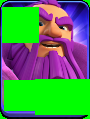
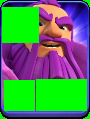
feat(cards): 导出新版攻城机器卡牌并更新模板遮罩

Changed region(s): [[0.3778, 0.6555, 1.0, 0.9832]]

diff --git a/scripts/refresh-cards/export_cards.py b/scripts/refresh-cards/export_cards.py
@@ -3,7 +3,7 @@
 
     python3 scripts/refresh-cards/export_cards.py var/coc-unpack/sc/ui.sc
 
-产出 assets/image/Cards/{Unit,Hero,Spell}/<卡牌名>.png。
+产出 assets/image/Cards/{Unit,Hero,Spell,Siege}/<卡牌名>.png。
 """
 
 from __future__ import annotations
@@ -87,13 +87,12 @@ UNIT_CARDS = (
     CardSpec("SuperMiner", "icon_unit_elite_miner", background_layer=3),
     CardSpec("SuperWitch", "icon_unit_elite_witch", background_layer=3),
 )
-
 HERO_CARDS = (
     CardSpec("King", "icon_hero_barbarianKing"),
     CardSpec("Queen", "icon_hero_archerQueen"),
     # 咏王右下角的飞行/地面模式切换开关是其他英雄没有的动态区域。
     CardSpec("Warden", "icon_hero_grandwarden",
-             extra_masks=((0.39, 0.67, 1.0, 0.96),)),
+             extra_masks=((0.4, 0.67, 0.96, 0.93),)),
     CardSpec("Prince", "icon_hero_minionprince"),
     CardSpec("Mars", "icon_hero_warriorPrincess"),
 )
@@ -101,24 +100,36 @@ SPELL_CARDS = (
     CardSpec("SpellRage", "icon_spell_rage"),
     CardSpec("SpellSpeed", "icon_spell_speedup"),
 )
+SIEGE_CARDS = (
+    CardSpec("Balloon", "icon_unit_siege_machine_balloon", image_layer=1),
+    CardSpec("LogRoller", "icon_unit_siege_machine_LogLauncher", image_layer=0),
+    CardSpec("Trebuchet", "icon_unit_siege_machine_catapult", image_layer=0),
+)
 # 卡面在各自卡底的原始 SC 画布中的位置。普通卡面约为 83×83，英雄为 83×113。
 UNIT_FACE_BOX = (3.5, 24.4, 78.5, 99)
 HERO_FACE_BOX = (2.5, -4, 76.5, 98)
 SPELL_FACE_BOX = (2.5, 24.4, 77, 99)
+# 攻城机器肖像在卡底里比普通兵高 16 个 SC 单位。
+SIEGE_FACE_BOX = (3.5, 8.4, 78.5, 83)
 # 英雄肖像的可见网格略有差异，但共享同一个 166×225 的 SC 画布。
 HERO_ICON_BOUNDS = (-83, -144.5, 83, 80.5)
 # 数量、等级等动态内容由 MAAFW 的 green_mask 跳过。
 UNIT_MASKS = ((0.39, 0.03, 0.95, 0.2), (0.06, 0.68, 0.4, 0.91))
 HERO_MASKS = ((0.03, 0.06, 0.43, 0.36), (0.05, 0.68, 0.38, 0.93))
 SPELL_MASKS = ((0.39, 0.03, 0.95, 0.21), (0.05, 0.68, 0.38, 0.91))
+# 所有攻城机器共用感叹号、等级和底部状态按钮的遮罩。
+SIEGE_MASKS = ((0.39, 0.1, 0.61, 0.60),
+               (0.05, 0.68, 0.38, 0.93),
+               (0.4, 0.67, 0.96, 0.93))
 CARD_GROUPS = (
     ("Unit", UNIT_CARDS, "unit_slot", 1, UNIT_FACE_BOX, UNIT_MASKS),
     ("Hero", HERO_CARDS, "hero_slot", 2, HERO_FACE_BOX, HERO_MASKS),
     ("Spell", SPELL_CARDS, "spell_slot", 1, SPELL_FACE_BOX, SPELL_MASKS),
+    ("Siege", SIEGE_CARDS, "siege_slot", 1, SIEGE_FACE_BOX, SIEGE_MASKS),
 )
 GREEN = (0, 255, 0, 255)
 MAX_SIZE = 1000
-# 根据设备截图缩至 720 高后的实测卡牌尺寸区分卡底倍率。
+# 根据设备截图缩至 720 高后的实测卡牌尺寸确定卡底倍率。
 CARD_SCALE = 1.69 * 720 / 1080
 
 
@@ -222,7 +233,7 @@ def render_cards(sc, out):
                 if not face_meshes:
                     raise ValueError(f"{card.name} 的卡面图层不可绘制：{card.symbol}")
                 face_bounds = renderer.bounds(face_meshes, obj_id)
-                if group == "Unit":
+                if group in ("Unit", "Siege"):
                     face_bounds = unit_icon_bounds(face_bounds)
                 elif group == "Hero":
                     face_bounds = HERO_ICON_BOUNDS

diff --git a/scripts/refresh-cards/README.md b/scripts/refresh-cards/README.md
@@ -1,17 +1,18 @@
 # 更新卡面
 
-游戏更新后，从 `.sc` 重新合成家乡战斗条的 Unit、Hero、Spell 卡牌模板。
+游戏更新后，从 `.sc` 重新合成家乡战斗条的 Unit、Hero、Spell、Siege 卡牌模板。
 
 ## 为什么需要工具
 
 卡底和人物图分存在 `ui.sc` 的不同符号里。脚本将两者的网格映射到同一画布，
 按顶点与 UV 直接绘制成卡牌：
 普通兵用 `unit_slot` 图层 1，编号 100 起的活动兵用图层 2；`icon_unit_elite_*` 超级兵
-用图层 3，并应用该图层在 SC 中记录的红色变换。英雄用 `hero_slot` 图层 2，法术用 `spell_slot` 图层 1。
+用图层 3，并应用该图层在 SC 中记录的红色变换。英雄用 `hero_slot` 图层 2，法术用 `spell_slot` 图层 1；攻城机器用 `siege_slot` 图层 1。
 数量、等级及卡底 alpha 低于 50% 的边角填成纯绿，供 MAAFW 的
 `green_mask` 跳过。
 每类卡牌共用一套遮罩位置；咏王另遮住右下角的模式切换开关。
 兵种图标按 SC 顶点所在的方形画布定位；可见网格缺少一侧时保留透明留白，避免拉伸后偏移。
+攻城机器卡面相对卡底上移，统一遮住感叹号、等级和状态按钮。
 
 `.sc` 的结构（v6 容器）：
 
@@ -60,28 +61,28 @@ scripts/refresh-cards/export_cards.py var/coc-unpack/sc/ui.sc
 scripts/refresh-cards/export_cards.py var/coc-unpack/sc/ui.sc --out /tmp/cards
 ```
 
-默认输出到 `assets/image/Cards/{Unit,Hero,Spell}/<卡牌名>.png`，与旧模板目录分开；
-流水线中的 `FindUnit`、`FindHero`、`FindSpell` 从这三个目录读取模板。
-当前内置 47 张 Unit、5 张 Hero、2 张 Spell 的元数据；以后可在 `export_cards.py` 的
-三个数组中追加卡牌及其 SC 符号，不扫描旧模板目录，也不导出建筑大师卡牌。
+默认输出到 `assets/image/Cards/{Unit,Hero,Spell,Siege}/<卡牌名>.png`，与旧模板目录分开；
+流水线中的 `FindUnit`、`FindHero`、`FindSpell`、`FindSiege` 从这四个目录读取模板。
+当前内置 47 张 Unit、5 张 Hero、2 张 Spell、3 张 Siege 的元数据；以后可在 `export_cards.py` 的
+对应数组中追加卡牌及其 SC 符号，不扫描旧模板目录，也不导出建筑大师卡牌。
 Unit 文件名沿用原模板编号（如 `0_Barbarian.png`、`13_ElectroDragon.png`），
 超级兵仍用原来的无编号名称，方便在文件夹中浏览。
 输出倍率由 `export_cards.py` 顶部的 `CARD_SCALE` 控制。
 缩放后宽高上限为 1000 像素。
 卡面按各类 slot 的固定位置映射到卡底；英雄肖像使用统一的 SC 画布范围保留留白。
 需要按 720 高的实机战斗画面对比倍率时，修改对应常量后重新导出。
-卡牌用尽后会变灰，三个 `Find*` 节点均使用反向 `TM_SQDIFF_NORMED`
+卡牌用尽后会变灰，四个 `Find*` 节点均使用反向 `TM_SQDIFF_NORMED`
 （`method: 10001`），按像素差异区分彩色可用卡和灰卡。
-实机截图核对后的阈值为兵种、英雄、法术均 `0.95`。
+实机截图核对后的阈值为兵种、英雄、法术、攻城机器均 `0.95`。
 
 常用参数：
 
 | 参数 | 作用 |
 |---|---|
-| `--out /tmp/cards` | 将三类模板写到独立输出根目录 |
+| `--out /tmp/cards` | 将四类模板写到独立输出根目录 |
 
 重复导出会覆盖同名文件，但不会自动删除输出目录里本次未生成的旧 PNG。
-发布资源包前应检查这三个目录是否包含最新模板；`--out /tmp/cards` 只用于单独预览，
+发布资源包前应检查这四个目录是否包含最新模板；`--out /tmp/cards` 只用于单独预览，
 不会更新流水线正在使用的模板。
 
 ## 查看通用 SC 的推导结果
